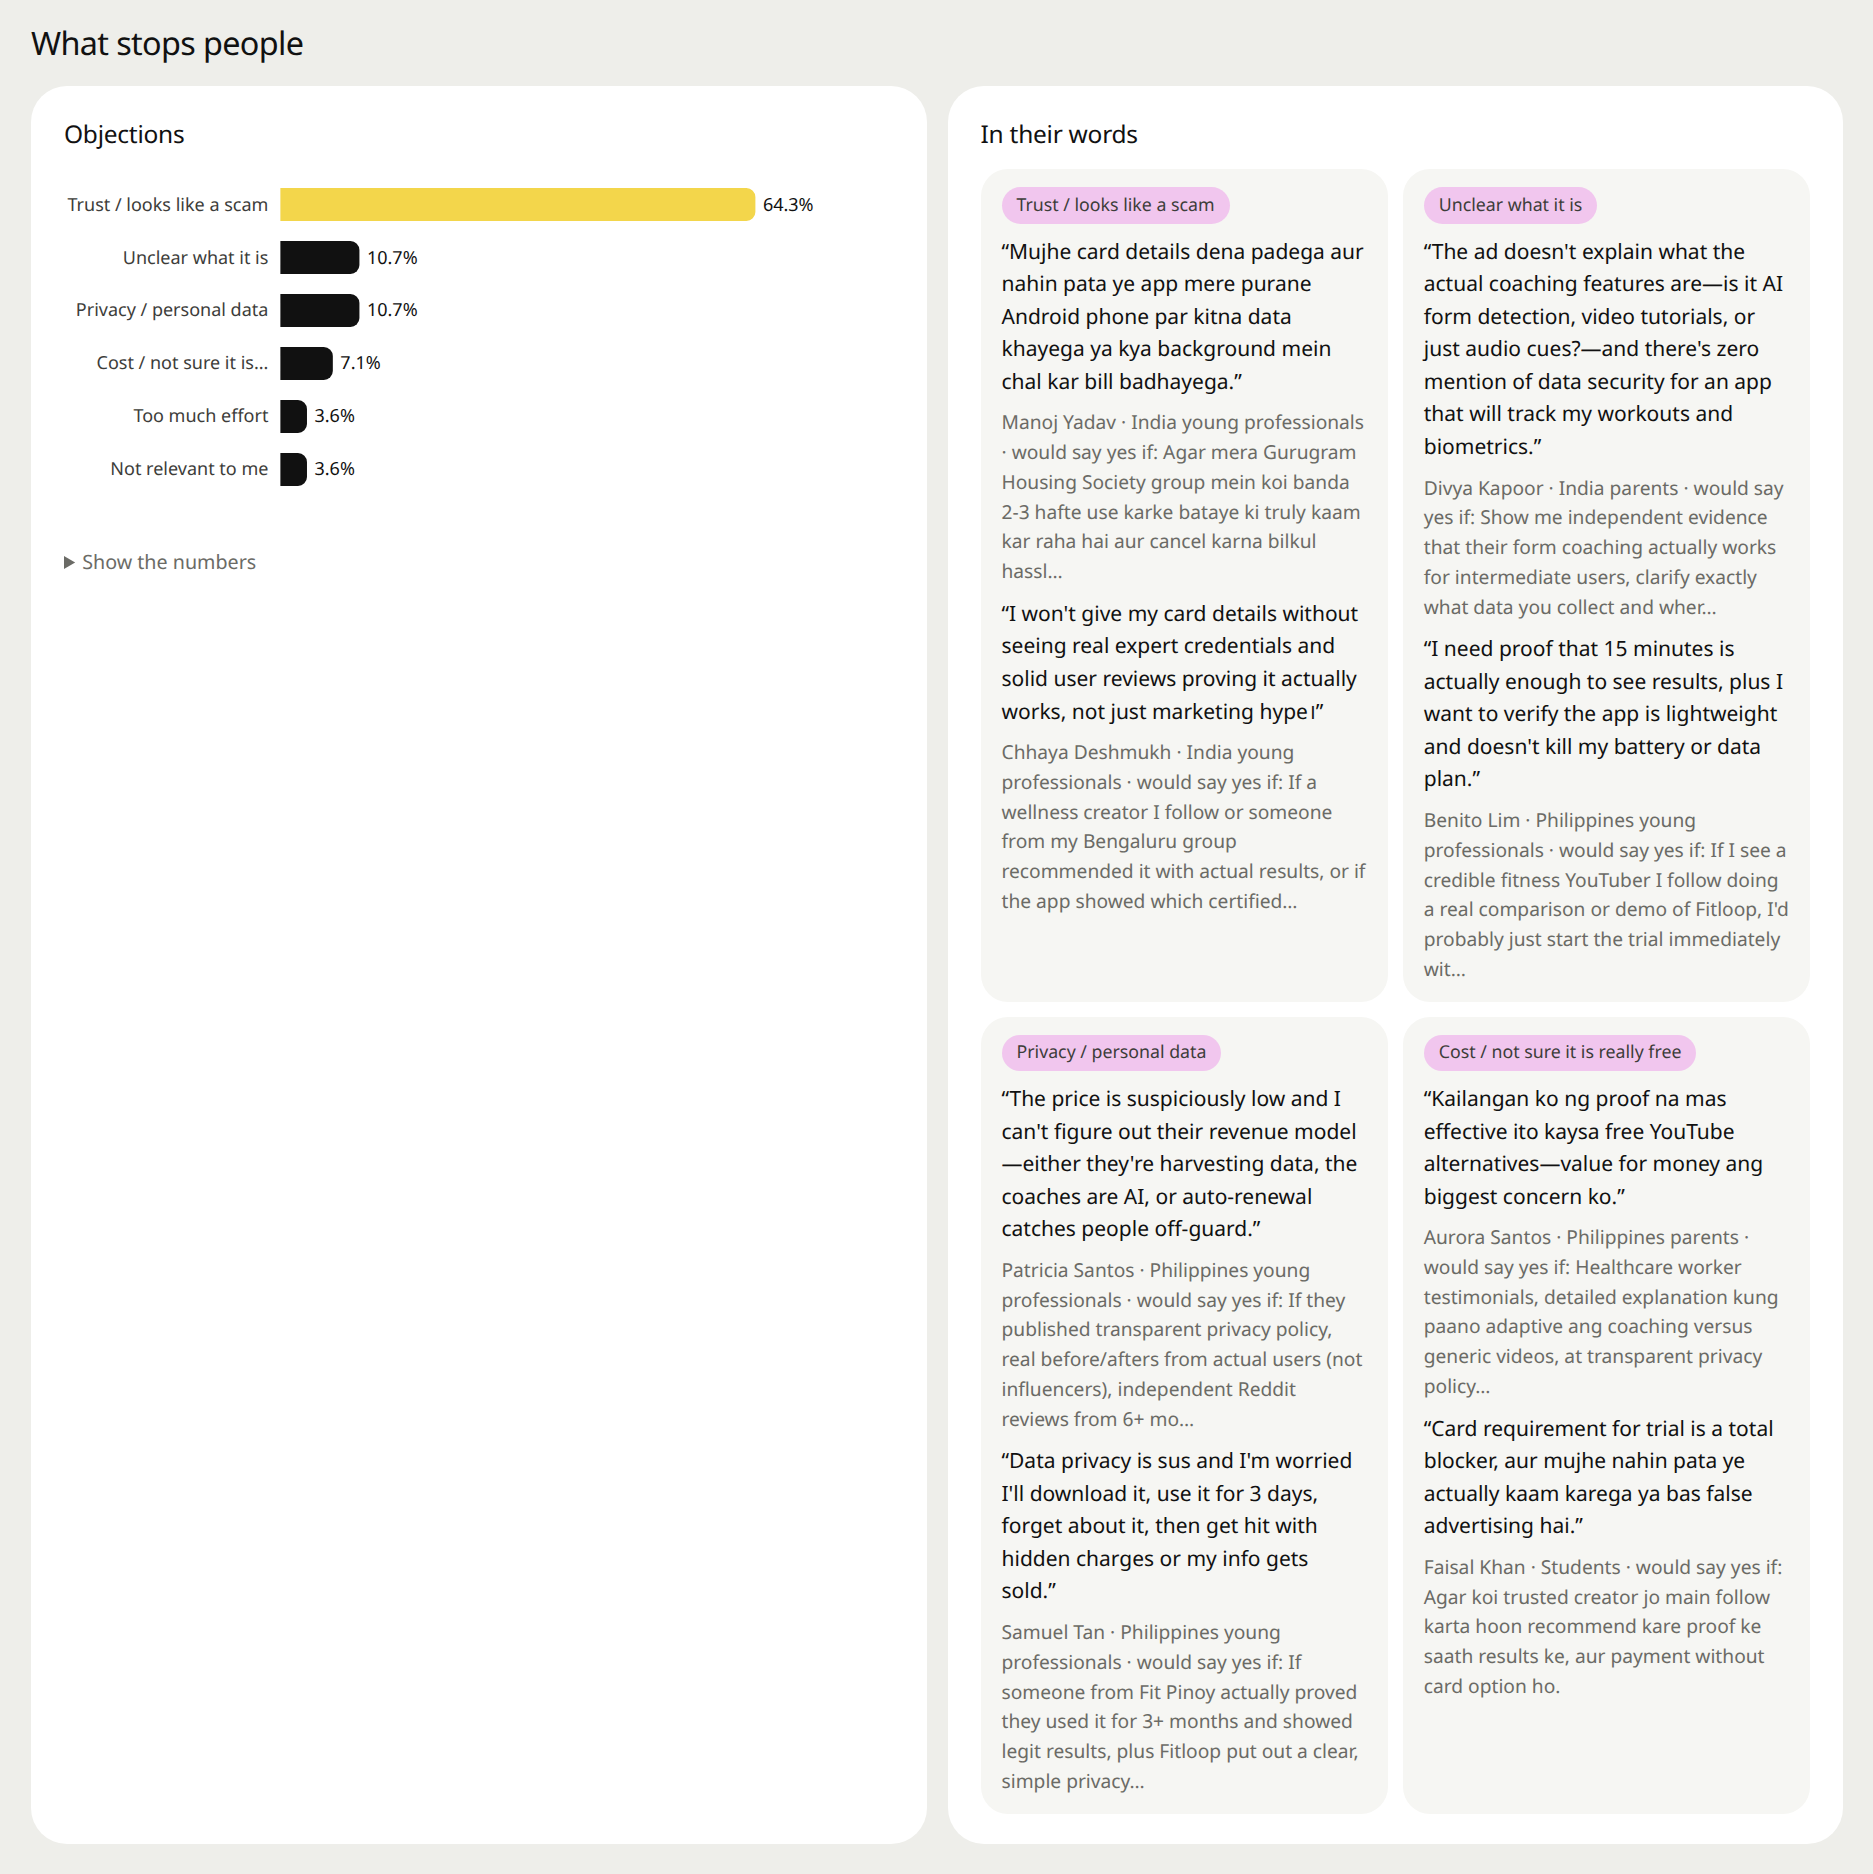
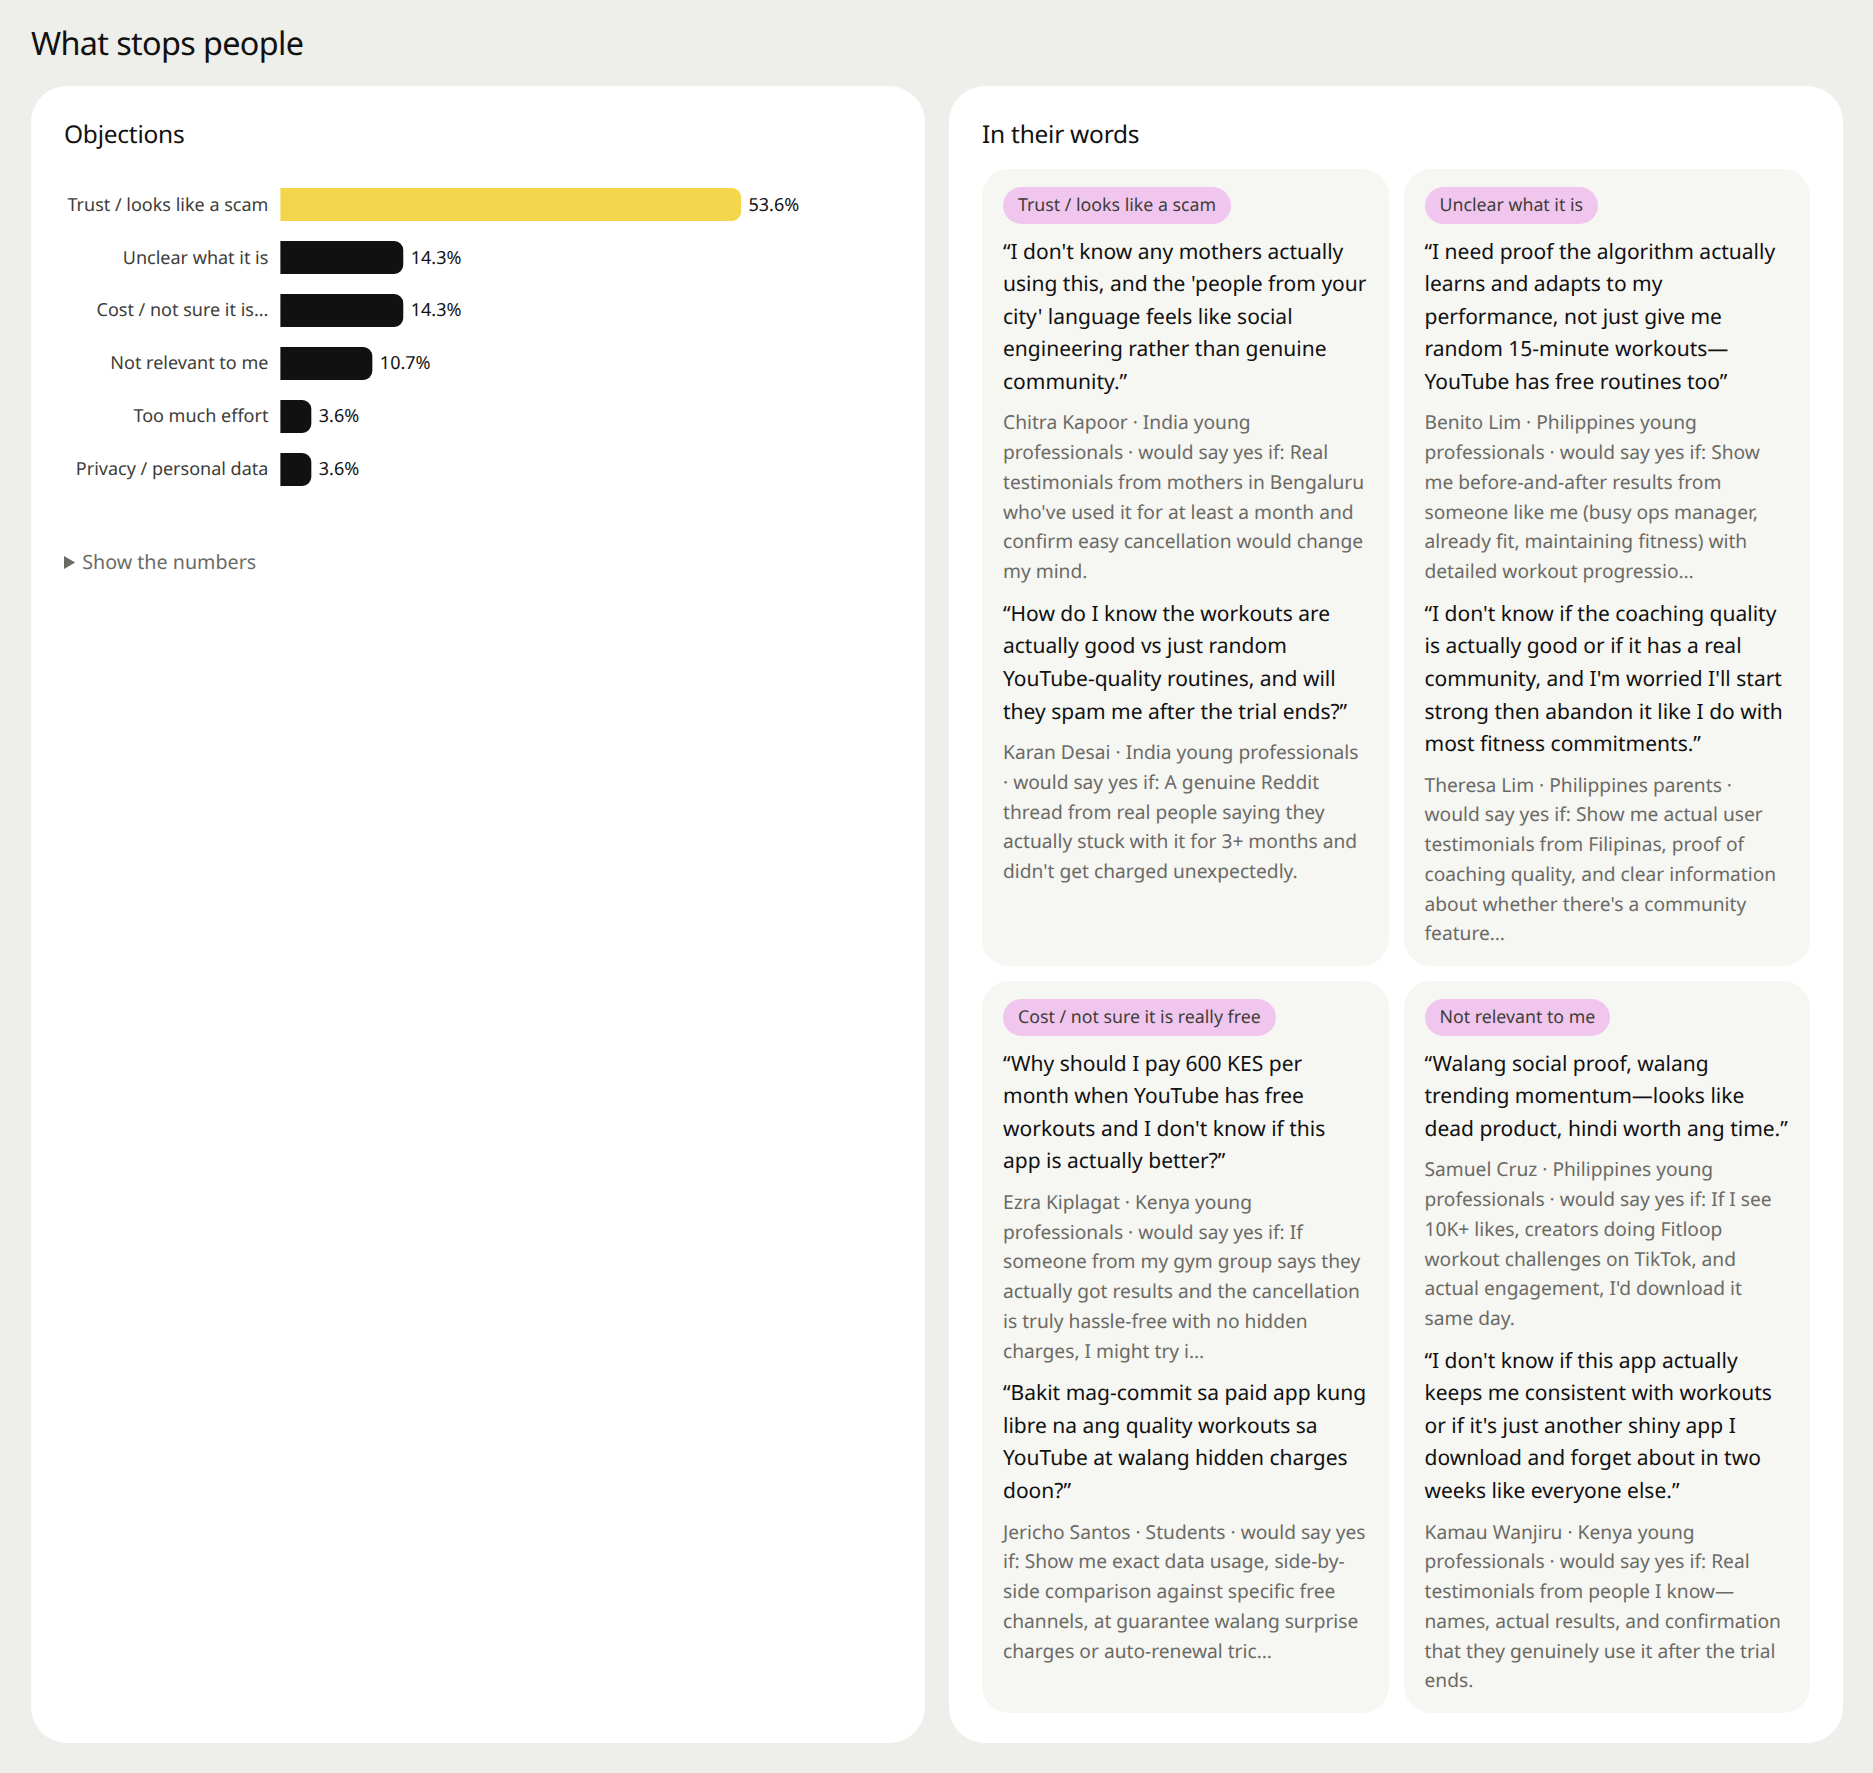
Launch run verified: brand posts on both platforms count as brand posts, feed story always refetched, pitch bars use the palette; README demo from the Fitloop launch run with new screenshots

Changed region(s): [[0.5264, 0.062, 0.96, 0.9616], [0.031, 0.062, 0.4335, 0.3412], [0.0, 0.0, 0.1548, 0.031]]

diff --git a/docs/make_shots.py b/docs/make_shots.py
@@ -1,0 +1,48 @@
+"""Render README screenshots of single dashboard sections with headless Chrome (light mode)."""
+import os
+import subprocess
+import sys
+import tempfile
+
+from PIL import Image, ImageChops
+
+dashboard, out_dir = sys.argv[1], sys.argv[2]
+shots = [s.split("=", 1) for s in sys.argv[3:]]  # name=selector-spec
+html = open(dashboard, encoding="utf-8").read()
+os.makedirs(out_dir, exist_ok=True)
+
+for name, spec in shots:
+    # spec: comma list of section ids to keep; "header" keeps the page header
+    keep = spec.split(",")
+    width = 1280
+    css = ["nav.toc,#tip,footer,h2.divider{display:none!important}", "section{display:none!important}",
+           ".wrap{padding-top:24px!important}", "html,body{background:#eeeeea!important}"]
+    if "header" not in keep:
+        css.append("header.top{display:none!important}")
+    for k in keep:
+        if k.startswith("first-ftc") or k.startswith("ftc-"):
+            nth = 1 if k.startswith("first-ftc") else int(k.split("-")[1])
+            css.append(f"#feedtest .ftc:not(:nth-child({nth})),#feedtest .grid2{{display:none!important}}")
+            k = "feedtest"
+        if k != "header":
+            css.append(f"#{k}{{display:block!important}}")
+    page = html.replace("<html lang=\"en\">", "<html lang=\"en\" data-theme=\"light\">", 1)
+    page = page.replace("</head>", "<style>" + "".join(css) + "</style></head>", 1)
+    tmp = tempfile.NamedTemporaryFile("w", suffix=".html", delete=False, encoding="utf-8")
+    tmp.write(page)
+    tmp.close()
+    raw = os.path.join(out_dir, f".{name}.raw.png")
+    subprocess.run(["google-chrome", "--headless=new", "--disable-gpu", "--hide-scrollbars", "--no-sandbox",
+                    "--force-device-scale-factor=1.5", f"--window-size={width},2600", "--virtual-time-budget=6000",
+                    f"--screenshot={raw}", "file://" + tmp.name], check=True, capture_output=True, timeout=120)
+    img = Image.open(raw).convert("RGB")
+    bg = Image.new("RGB", img.size, img.getpixel((2, 2)))
+    box = ImageChops.difference(img, bg).getbbox()
+    if box:
+        pad = 30
+        box = (max(0, box[0] - pad), max(0, box[1] - pad), min(img.width, box[2] + pad), min(img.height, box[3] + pad))
+        img = img.crop(box)
+    img.save(os.path.join(out_dir, f"{name}.png"), optimize=True)
+    os.remove(raw)
+    os.remove(tmp.name)
+    print(name, img.size)

diff --git a/backend/claude_cli/report_view.py b/backend/claude_cli/report_view.py
@@ -178,7 +178,7 @@ def pitch_section(p: Optional[Dict[str, Any]], chart=None) -> Optional[Tuple[str
             f'<div class="tiles">{tiles_html}</div>'
             f'<div class="card"><h3>Before and after the rebuttals</h3><div class="grid2"><div><div class="small muted">After the pitch</div>{_mix_bar(before)}</div>'
             f'<div><div class="small muted">After the rebuttals</div>{_mix_bar(after)}</div></div>'
-            f'<div class="small muted">green yes · yellow maybe · pink no</div></div>'
+            f'<div class="small muted">blue yes · grey maybe · red no</div></div>'
             + (f'<div class="card"><h3>Fix in the pitch first</h3><ul>{fixes}</ul></div>' if fixes else "")
             + (f'<div class="card"><h3>Objections and how the rebuttals did</h3><div class="tbl"><table><thead><tr><th>Objection</th><th class="num">Share</th>'
                f'<th>Rebuttal used</th><th class="num">Moved them</th><th>Questions they asked back</th></tr></thead><tbody>{obj_rows}</tbody></table></div></div>' if obj_rows else "")
@@ -218,7 +218,7 @@ def ideas_section(ideas: Optional[Dict[str, Any]]) -> Optional[Tuple[str, str, s
 
 REPORT_CSS += """
 .mixbar{display:flex;height:14px;border-radius:7px;overflow:hidden;background:var(--line);margin:6px 0}
-.mixbar span{display:block;height:100%}.mixbar .mint{background:var(--mint)}.mixbar .accent{background:var(--accent)}.mixbar .orchid{background:var(--orchid)}
+.mixbar span{display:block;height:100%}.mixbar .mint{background:var(--mm-yes,var(--mm-mint))}.mixbar .accent{background:var(--mm-maybe,var(--accent))}.mixbar .orchid{background:var(--mm-no,var(--mm-orchid))}
 .grid2{display:grid;grid-template-columns:1fr 1fr;gap:16px}@media(max-width:700px){.grid2{grid-template-columns:1fr}}
 pre.script{white-space:pre-wrap;font:13px/1.5 var(--mono,monospace);margin:8px 0 0}
 .idea dl{margin:8px 0 0}.idea ul.small{margin:0;padding-left:18px}

diff --git a/backend/app/services/feed_story.py b/backend/app/services/feed_story.py
@@ -372,7 +372,7 @@ def _build_platform(platform: str, data: Dict[str, List[Dict[str, Any]]], ridx: 
             children[_int(p.get("original_post_id"))].append(p)
 
     rounds_meta = ridx.get("rounds") or {}
-    brand_inj = [i for i in injected if i["platform"] in (None, platform) and i.get("brand", True)]
+    brand_inj = [i for i in injected if i["platform"] in (None, "both", "all", platform) and i.get("brand", True)]
     injected_keys = {(i["key"], i["agent_id"]) for i in brand_inj}
     injected_any = {i["key"] for i in brand_inj}
     injected_source = {i["key"]: i["source"] for i in brand_inj}
@@ -400,7 +400,7 @@ def _build_platform(platform: str, data: Dict[str, List[Dict[str, Any]]], ridx: 
             quote_content = (orig.get("content") if orig else p.get("content")) or ""
             original = {"post_id": orig_id, "author": who(orig.get("user_id")) if orig else _author(None, None, "unknown")}
         key = _norm_key(content)
-        is_brand = (kind == "post" and ((key, aid) in injected_keys or key in injected_any)) or author.get("kind") == "community"
+        is_brand = kind == "post" and ((key, aid) in injected_keys or key in injected_any or author.get("kind") == "community")
         rnd = post_round(p)
         comments = []
         for c in sorted(comments_by_post.get(pid, []), key=lambda c: (_created_key(c.get("created_at")), _int(c.get("comment_id")) or 0)):

diff --git a/backend/tests/test_feed_story.py b/backend/tests/test_feed_story.py
@@ -335,3 +335,15 @@ def test_feed_story_api_builds_caches_and_filters(tmp_path, monkeypatch):
     empty.mkdir()
     (empty / "state.json").write_text(json.dumps({"project_id": "p", "graph_id": "g"}), encoding="utf-8")
     assert c.get("/api/simulation/sim_empty/feed-story").status_code == 404
+
+
+def test_events_for_both_platforms_are_brand_posts(sim_dir):
+    """A scheduled event with platform "both" (the CLI default) must be flagged as a brand post on every platform."""
+    cfg = _config(scheduled=[{"round": 1, "agent": 0, "platform": "both", "content": "Launch day!"}])
+    story = fs.build_feed_story(sim_dir, cfg)
+    inj = [i for i in fs._injected_posts(cfg) if i["source"] == "scheduled_event"]
+    assert inj and inj[0]["platform"] == "both" and inj[0]["brand"]
+    for plat in story["platforms"].values():
+        for p in plat["posts"]:
+            if fs._norm_key(p["content"]) == fs._norm_key("Launch day!"):
+                assert p["is_brand"]

diff --git a/backend/claude_cli/mirofish.py b/backend/claude_cli/mirofish.py
@@ -502,7 +502,8 @@ def collect(c: Client, out_dir: str, project_id: Optional[str] = None, simulatio
     if simulation_id:
         for kind, name in (("feed-test", "feed_test"), ("analyst-panel", "analyst_panel"),
                            ("market-report", "market_report"), ("feed-story", "feed_story"), ("pitch", "pitch")):
-            if not os.path.exists(os.path.join(out_dir, f"{name}.json")):
+            # the feed story grows with every round, so it is always refetched; the others are written once
+            if name == "feed_story" or not os.path.exists(os.path.join(out_dir, f"{name}.json")):
                 put(name, _try(name, lambda kind=kind: c.data("GET", f"/api/simulation/{simulation_id}/{kind}")))
     if report_id:
         put("report", _try("report", lambda: c.data("GET", f"/api/report/{report_id}")))

diff --git a/backend/claude_cli/exporter.py b/backend/claude_cli/exporter.py
@@ -1057,7 +1057,7 @@ def render_dashboard(bundle: Dict[str, Any], title: Optional[str] = None) -> Tup
         if r.get("lead_score") is not None:
             aid = r.get("agent_id")
             leads[aid] = int(round((leads[aid] + r["lead_score"]) / 2)) if aid in leads else r["lead_score"]
-    for extra in (report_view.pitch_section(pitch, marketing.chart), report_view.ideas_section(bundle.get("ideas"))):
+    for extra in (report_view.ideas_section(bundle.get("ideas")), report_view.pitch_section(pitch, marketing.chart)):   # pitch ends up first
         if extra:
             at = next((i + 1 for i, sec in enumerate(mk_sections) if sec[0] == "playbook"), len(mk_sections))
             mk_sections.insert(at, extra)

diff --git a/README.md b/README.md
@@ -46,15 +46,25 @@ Runs on Claude · works as a Claude Code skill and as MCP agent tools · one off
 <td><img src="docs/images/pricing.png" alt="Price sensitivity curves with acceptable range"/><br><b>Pricing.</b> Van Westendorp curves: the acceptable range, the sweet spot and the "never pay" price by segment.</td>
 <td><img src="docs/images/objections.png" alt="Objections chart and quotes"/><br><b>Objections.</b> What stops people, how often, in their own words, and what would change their mind.</td>
 </tr>
+<tr>
+<td><img src="docs/images/social-feed.png" alt="Social feed: brand posts with likes, quotes, comments, reach and reply sentiment, then every post by platform and round"/><br><b>Social feed.</b> Your launch posts inside the simulation: who replied from which country, in which round, with what sentiment; then every post, filterable by platform, round, audience and country.</td>
+<td><img src="docs/images/pitch.png" alt="Sales rehearsal: pitch score, objections with rebuttal success, by audience, hot leads"/><br><b>Sales rehearsal.</b> Every simulated buyer hears the pitch; objections, the questions they ask back, how each rebuttal did, and whom to call first.</td>
+</tr>
+<tr>
+<td><img src="docs/images/report.png" alt="Plain-language report with download buttons in its header"/><br><b>Report.</b> Written for anyone: what we tested, who we simulated, what happened, objections and how to answer them, pricing, sales notes, action plan, limits. Every download sits in its header.</td>
+<td><img src="docs/images/ideas.png" alt="Test ideas proposed from the evidence"/><br><b>Test ideas.</b> The next experiments, from your real ad data and the run, each citing its evidence and carrying the config to simulate it first.</td>
+</tr>
 </table>
 
-**Demo run.** These screenshots come from a real run on **Fitloop**, a made-up home-workout app with a 7-day card-required trial at $4.99 a month. It was tested on 28 simulated young professionals, parents and students in India, the Philippines and Kenya, across Facebook, Instagram, TikTok and Reddit ads. The brand, the audiences and the pilot numbers in its brief are all invented.
-- **Decision:** iterate, low confidence. The survey and the analysts said iterate; the best Instagram ad said go.
-- **Survey:** nobody committed and 61% said maybe. Trust was the biggest blocker, mostly about entering card details for a "free" trial.
-- **Analysts:** all five said iterate, with an average success chance of 25%. Their themes: free YouTube workouts set the bar, old phones and prepaid data plans worry people, and the adaptive-coaching claim needs proof.
-- **Price:** the acceptable range was $3 to $15, with a sweet spot around $5.
+**Demo run.** These screenshots come from a real launch simulation of **Fitloop**, a made-up home-workout app with a 7-day trial at $4.99 a month, on 28 interview-grounded simulated people (young professionals, parents and students in India, the Philippines and Kenya, each with a phone, a data plan and a life story in their own words). Five ads ran in Facebook, Instagram, TikTok and Reddit feeds; the brand's own teaser, launch, offer and "no card" posts were published inside six rounds of social simulation; everyone answered the buyer survey and heard the sales pitch. The brand, the audiences and the pilot numbers in its brief are all invented.
+- **Decision:** iterate, low confidence. Survey, feed test and all five analysts said iterate (success chance 31%).
+- **Social feed:** the launch posts drew 11-13 replies each on Reddit, mostly positive, and 7-13 quote-tweets on X; people asked, in Hindi, Taglish and Kenyan English, whether it works offline on an old Android, whether the trial auto-charges, and for proof from someone in their city.
+- **Survey:** 4% would start the trial, 71% maybe; purchase intent 3.2/5 ± 1.1. Trust ("looks like a scam", 54%) was the blocker, then "unclear what it is". Philippines young professionals were the only group with firm yeses (20%).
+- **Sales rehearsal:** pitch score 39/100; after rebuttals 7% yes and 64% maybe. The trust rebuttal moved under half of the objectors, and people asked for testimonials from working mothers in India and real users in the Philippines. 12 hot leads with the best channel and time to reach them.
+- **Price:** acceptable $3 to $15, sweet spot about $3.
+- **Test ideas:** 8 next experiments, led by a no-card trial flow and a proof-led creative for the Philippines, each citing its evidence.
 
-These numbers come from simulated people. Two runs in a row produced no firm "yes", so treat absolute rates as pessimistic until a backtest calibrates them, and use the run to rank options and find objections.
+These numbers come from simulated people. Treat absolute rates as pessimistic until a backtest calibrates them, and use the run to rank options, find objections and plan tests.
 
 ## How it works
 
